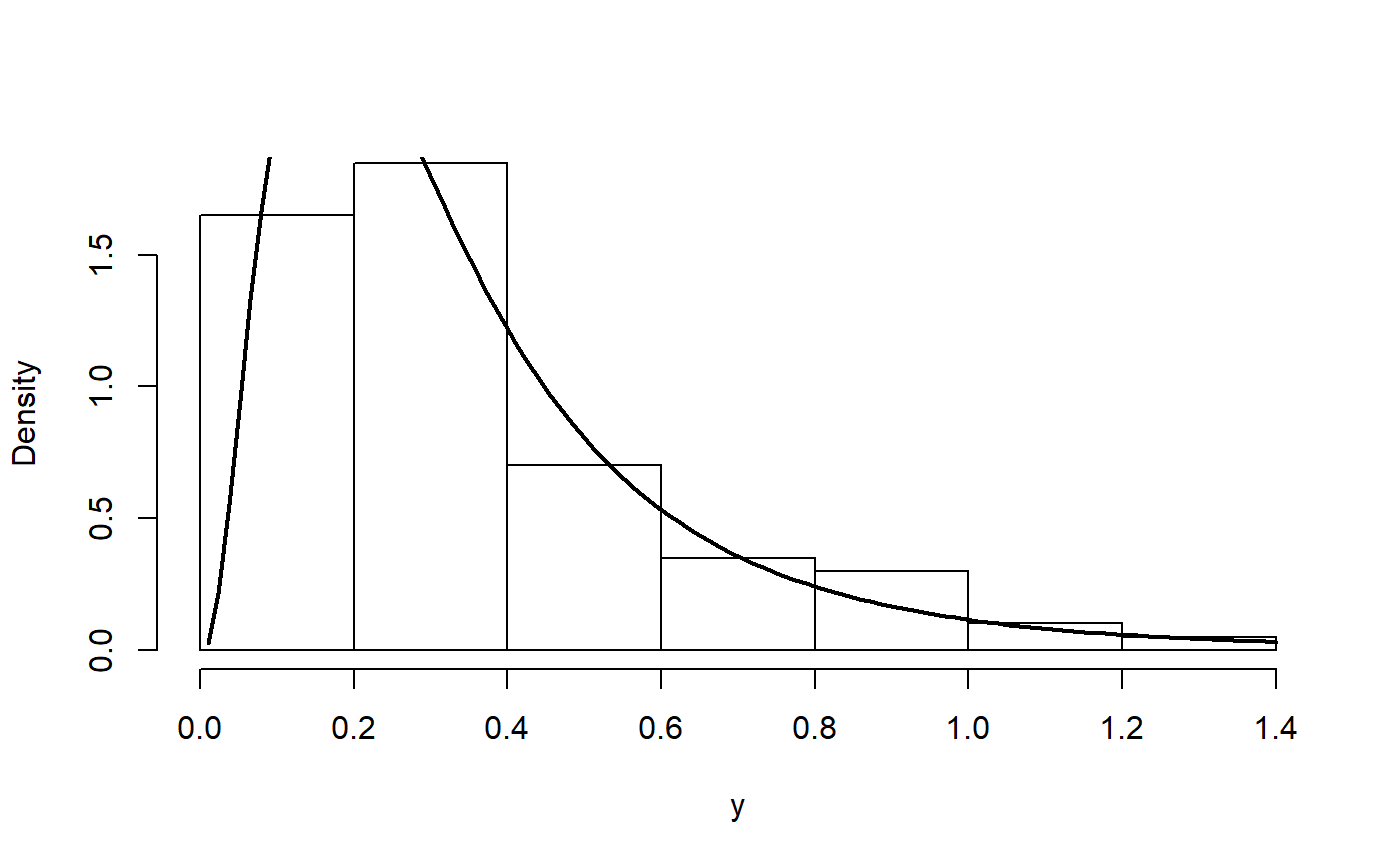
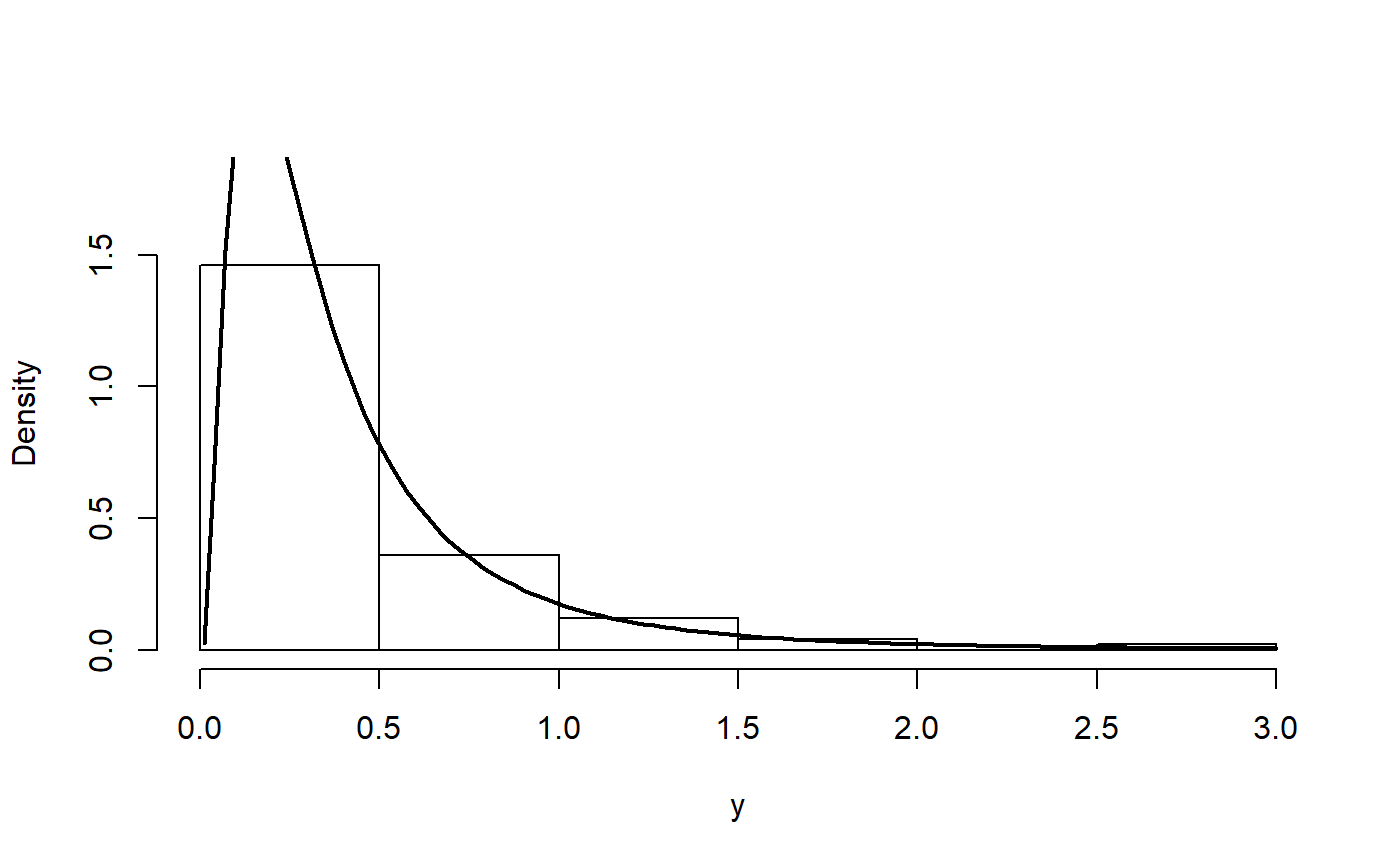
se mejoró la documentación :smile:

diff --git a/docs/articles/EW_distribution.html b/docs/articles/EW_distribution.html
@@ -78,7 +78,7 @@
       <h1>EW distribution</h1>
                         <h4 class="author">Freddy Hernandez</h4>
             
-            <h4 class="date">2019-02-06</h4>
+            <h4 class="date">2019-02-07</h4>
       
       
       <div class="hidden name"><code>EW_distribution.Rmd</code></div>
@@ -145,15 +145,15 @@
 <div id="cumulative-density-function" class="section level3">
 <h3 class="hasAnchor">
 <a href="#cumulative-density-function" class="anchor"></a>Cumulative density function</h3>
-<p><span class="math display">\[F(x) = \left(1 - \exp^{-\mu x^{\sigma}} \right)^ \nu, \quad x &gt; 0.\]</span></p>
+<p><span class="math display">\[F(x) = \left(1 - e^{-\mu x^{\sigma}} \right)^ \nu, \quad x &gt; 0.\]</span></p>
 <p>Next figure shows possible shapes of the cdf.</p>
 <p><img src="EW_distribution_files/figure-html/EW2-1.png" width="700"></p>
 </div>
 <div id="hazard-function" class="section level3">
 <h3 class="hasAnchor">
 <a href="#hazard-function" class="anchor"></a>Hazard function</h3>
-<p><span class="math display">\[h(x) = \mu \sigma \nu x^{\sigma-1} \exp^{-\mu x^{\sigma}}
-      (1-\exp^{-\mu x^{\sigma}})^{-1},\]</span></p>
+<p><span class="math display">\[h(x) = \mu \sigma \nu x^{\sigma-1} e^{-\mu x^{\sigma}}
+      (1-e^{-\mu x^{\sigma}})^{-1},\]</span></p>
 <p>Next figure shows possible shapes of the hazard function.</p>
 <p><img src="EW_distribution_files/figure-html/EW3-1.png" width="700"></p>
 </div>
@@ -200,13 +200,13 @@ mod &lt;-<span class="st"> </span><span class="kw">gamlss</span>(y<span class="o
 <p>To obtain the fitted values for <span class="math inline">\(\mu\)</span>, <span class="math inline">\(\sigma\)</span> and <span class="math inline">\(\nu\)</span> we use the inverse link function <span class="math inline">\(\log()\)</span>.</p>
 <div class="sourceCode"><pre class="sourceCode r"><code class="sourceCode r"><span class="kw">exp</span>(<span class="kw">coef</span>(mod, <span class="dt">what=</span><span class="st">'mu'</span>))
 ## (Intercept) 
-##    5.298428
+##    5.115247
 <span class="kw">exp</span>(<span class="kw">coef</span>(mod, <span class="dt">what=</span><span class="st">'sigma'</span>))
 ## (Intercept) 
-##   0.6200398
+##   0.4287514
 <span class="kw">exp</span>(<span class="kw">coef</span>(mod, <span class="dt">what=</span><span class="st">'nu'</span>))
 ## (Intercept) 
-##    7.236019</code></pre></div>
+##    14.47181</code></pre></div>
 <p>The results show that estimated parameters are close to the true parameters <span class="math inline">\(\mu\)</span>, <span class="math inline">\(\sigma\)</span> and <span class="math inline">\(\nu\)</span>.</p>
 <p>In the next figure we have the histogram for the data and the fitted density. We note that the fitted density explains better the observed data.</p>
 <div class="sourceCode"><pre class="sourceCode r"><code class="sourceCode r"><span class="kw">hist</span>(y, <span class="dt">freq=</span><span class="ot">FALSE</span>, <span class="dt">main=</span><span class="st">''</span>, <span class="dt">ylim=</span><span class="kw">c</span>(<span class="dv">0</span>, <span class="fl">1.8</span>))
@@ -291,13 +291,13 @@ y &lt;-<span class="st"> </span><span class="kw"><a href="../reference/dEW.html"
 <p>and the results can be found with</p>
 <div class="sourceCode"><pre class="sourceCode r"><code class="sourceCode r"><span class="kw">coef</span>(mod, <span class="dt">what=</span><span class="st">"mu"</span>)
 ## (Intercept)          x1 
-##    1.948252   -2.796095
+##    2.006249   -3.017142
 <span class="kw">coef</span>(mod, <span class="dt">what=</span><span class="st">"sigma"</span>)
 ## (Intercept)          x2 
-##    2.923901   -1.999962
+##    2.995257   -1.986049
 <span class="kw">coef</span>(mod, <span class="dt">what=</span><span class="st">"nu"</span>)
 ## (Intercept) 
-##   0.8347649</code></pre></div>
+##   0.7248023</code></pre></div>
 <p>We note that the estimated parameters are close to the true parameter vector <span class="math inline">\(\boldsymbol{\theta} = (2, -3, 3, -2, 2)^\top\)</span>.</p>
 </div>
   </div>

diff --git a/docs/reference/dFWE.html b/docs/reference/dFWE.html
@@ -178,7 +178,7 @@ generates random deviates and <code>hFWE</code> gives the hazard function.</p>
 
     <p>The Flexible Weibull extension with parameters <code>mu</code> and <code>sigma</code>
 has density given by</p>
-<p>\(f(x) = (\mu + \sigma/x^2) exp(\mu x - \sigma/x) exp(-exp(\mu x-\sigma/x))\)</p>
+<p>\(f(x) = (\mu + \sigma/x^2) \exp(\mu x - \sigma/x) \exp(-\exp(\mu x-\sigma/x))\)</p>
 <p>for x&gt;0.</p>
     
 
@@ -204,7 +204,7 @@ has density given by</p>
      <span class='kw'>ylim</span><span class='kw'>=</span><span class='fu'>c</span>(<span class='fl'>0</span>, <span class='fl'>2</span>), <span class='kw'>las</span><span class='kw'>=</span><span class='fl'>1</span>, <span class='kw'>main</span><span class='kw'>=</span><span class='st'>""</span>)</div><div class='input'><span class='fu'>curve</span>(<span class='fu'>dFWE</span>(<span class='no'>x</span>, <span class='kw'>mu</span><span class='kw'>=</span><span class='fl'>2</span>, <span class='kw'>sigma</span><span class='kw'>=</span><span class='fl'>0.5</span>), <span class='kw'>from</span><span class='kw'>=</span><span class='fl'>0</span>, <span class='kw'>to</span><span class='kw'>=</span><span class='fl'>3</span>, <span class='kw'>add</span><span class='kw'>=</span><span class='fl'>TRUE</span>, <span class='kw'>col</span><span class='kw'>=</span><span class='st'>"red"</span>)</div><div class='img'><img src='dFWE-3.png' alt='' width='700' height='433' /></div><div class='input'>
 <span class='co'>## The Hazard function</span>
 <span class='fu'>curve</span>(<span class='fu'>hFWE</span>(<span class='no'>x</span>, <span class='kw'>mu</span><span class='kw'>=</span><span class='fl'>0.75</span>, <span class='kw'>sigma</span><span class='kw'>=</span><span class='fl'>0.5</span>), <span class='kw'>from</span><span class='kw'>=</span><span class='fl'>0</span>, <span class='kw'>to</span><span class='kw'>=</span><span class='fl'>2</span>, <span class='kw'>ylim</span><span class='kw'>=</span><span class='fu'>c</span>(<span class='fl'>0</span>, <span class='fl'>2.5</span>),
-      <span class='kw'>col</span><span class='kw'>=</span><span class='st'>"red"</span>, <span class='kw'>ylab</span><span class='kw'>=</span><span class='st'>"The Hazard function"</span>, <span class='kw'>las</span><span class='kw'>=</span><span class='fl'>1</span>)</div><div class='img'><img src='dFWE-4.png' alt='' width='700' height='433' /></div></pre>
+      <span class='kw'>col</span><span class='kw'>=</span><span class='st'>"red"</span>, <span class='kw'>ylab</span><span class='kw'>=</span><span class='st'>"Hazard function"</span>, <span class='kw'>las</span><span class='kw'>=</span><span class='fl'>1</span>)</div><div class='img'><img src='dFWE-4.png' alt='' width='700' height='433' /></div></pre>
   </div>
   <div class="col-md-3 hidden-xs hidden-sm" id="sidebar">
     <h2>Contents</h2>

diff --git a/docs/articles/FWE_distribution.html b/docs/articles/FWE_distribution.html
@@ -78,7 +78,7 @@
       <h1>FWE distribution</h1>
                         <h4 class="author">Freddy Hernandez</h4>
             
-            <h4 class="date">2019-02-06</h4>
+            <h4 class="date">2019-02-07</h4>
       
       
       <div class="hidden name"><code>FWE_distribution.Rmd</code></div>
@@ -152,10 +152,10 @@ mod &lt;-<span class="st"> </span><span class="kw">gamlss</span>(y<span class="o
 <p>To obtain the fitted values for <span class="math inline">\(\mu\)</span> and <span class="math inline">\(\sigma\)</span> we use the inverse link function <span class="math inline">\(\log()\)</span>.</p>
 <div class="sourceCode"><pre class="sourceCode r"><code class="sourceCode r"><span class="kw">exp</span>(<span class="kw">coef</span>(mod, <span class="dt">what=</span><span class="st">'mu'</span>))
 ## (Intercept) 
-##   0.7421811
+##   0.7811862
 <span class="kw">exp</span>(<span class="kw">coef</span>(mod, <span class="dt">what=</span><span class="st">'sigma'</span>))
 ## (Intercept) 
-##    0.469538</code></pre></div>
+##   0.5292902</code></pre></div>
 <p>The results show that estimated parameters are close to the true parameters <span class="math inline">\(\mu\)</span> and <span class="math inline">\(\sigma\)</span>.</p>
 <p>In the next figure we have the histogram for the data and the fitted density. We note that the fitted density explains better the observed data.</p>
 <div class="sourceCode"><pre class="sourceCode r"><code class="sourceCode r"><span class="kw">hist</span>(y, <span class="dt">freq=</span><span class="ot">FALSE</span>, <span class="dt">breaks=</span><span class="dv">10</span>, <span class="dt">ylim=</span><span class="kw">c</span>(<span class="dv">0</span>, <span class="fl">1.5</span>), <span class="dt">las=</span><span class="dv">1</span>, <span class="dt">main=</span><span class="st">''</span>)
@@ -188,10 +188,10 @@ y &lt;-<span class="st"> </span><span class="kw"><a href="../reference/dFWE.html
 <p>and the results can be found with</p>
 <div class="sourceCode"><pre class="sourceCode r"><code class="sourceCode r"><span class="kw">coef</span>(mod, <span class="dt">what=</span><span class="st">"mu"</span>)
 ## (Intercept)          x1 
-##    1.485296   -3.552354
+##    1.269556   -3.063113
 <span class="kw">coef</span>(mod, <span class="dt">what=</span><span class="st">"sigma"</span>)
 ## (Intercept)          x2 
-##    1.398129   -2.077173</code></pre></div>
+##    1.253663   -2.009093</code></pre></div>
 <p>We note that the estimated parameters are close to the true parameter vector <span class="math inline">\(\boldsymbol{\theta} = (1.21, -3, 1.26, -2)^\top\)</span>.</p>
 </div>
   </div>

diff --git a/docs/articles/OW_distribution.html b/docs/articles/OW_distribution.html
@@ -78,7 +78,7 @@
       <h1>OW distribution</h1>
                         <h4 class="author">Jaime Mosquera</h4>
             
-            <h4 class="date">2019-02-06</h4>
+            <h4 class="date">2019-02-07</h4>
       
       
       <div class="hidden name"><code>OW_distribution.Rmd</code></div>
